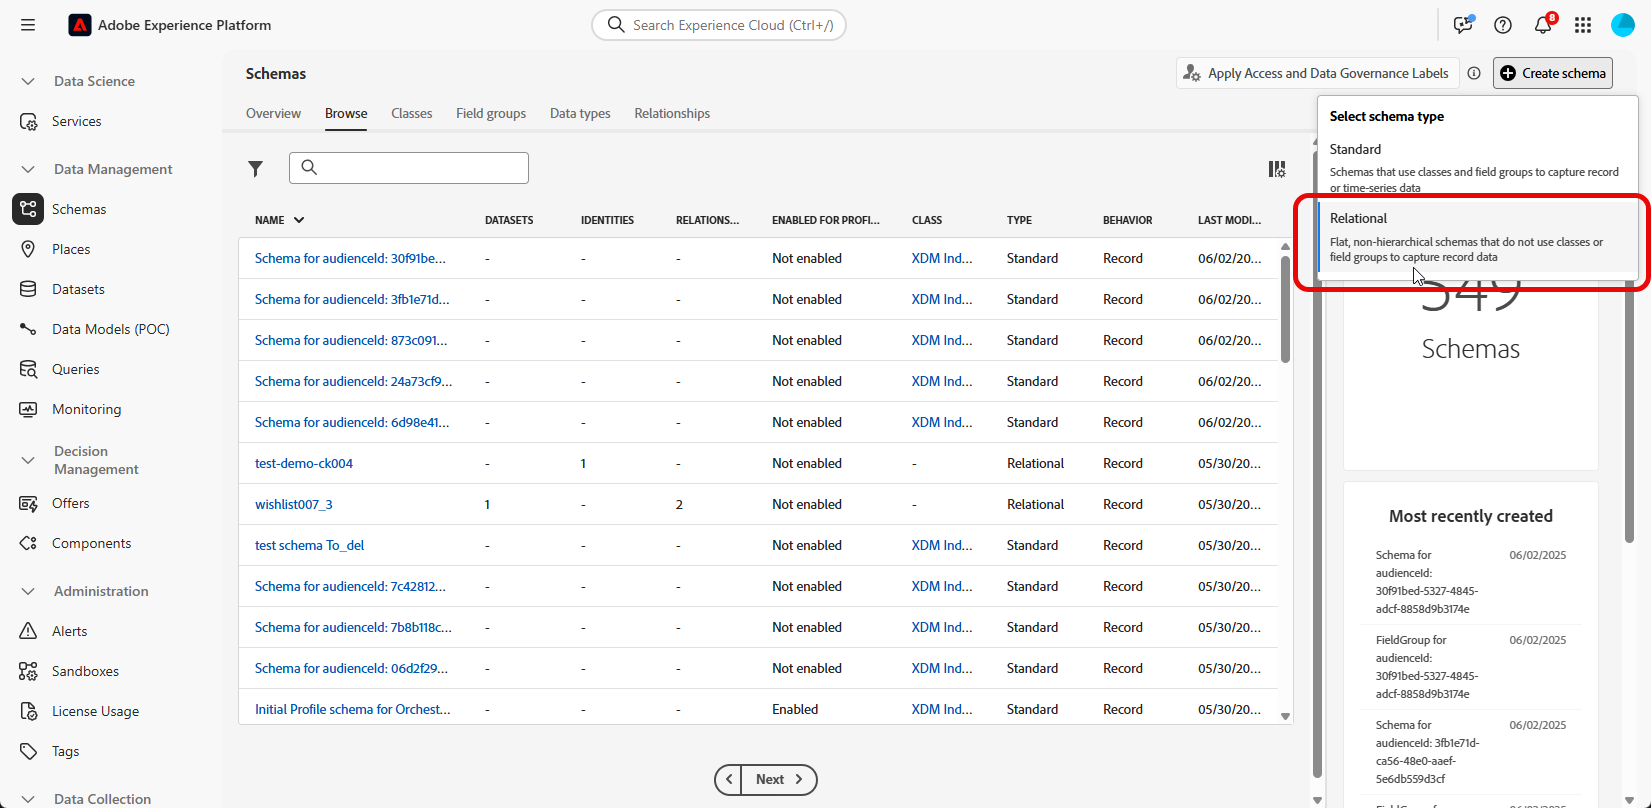
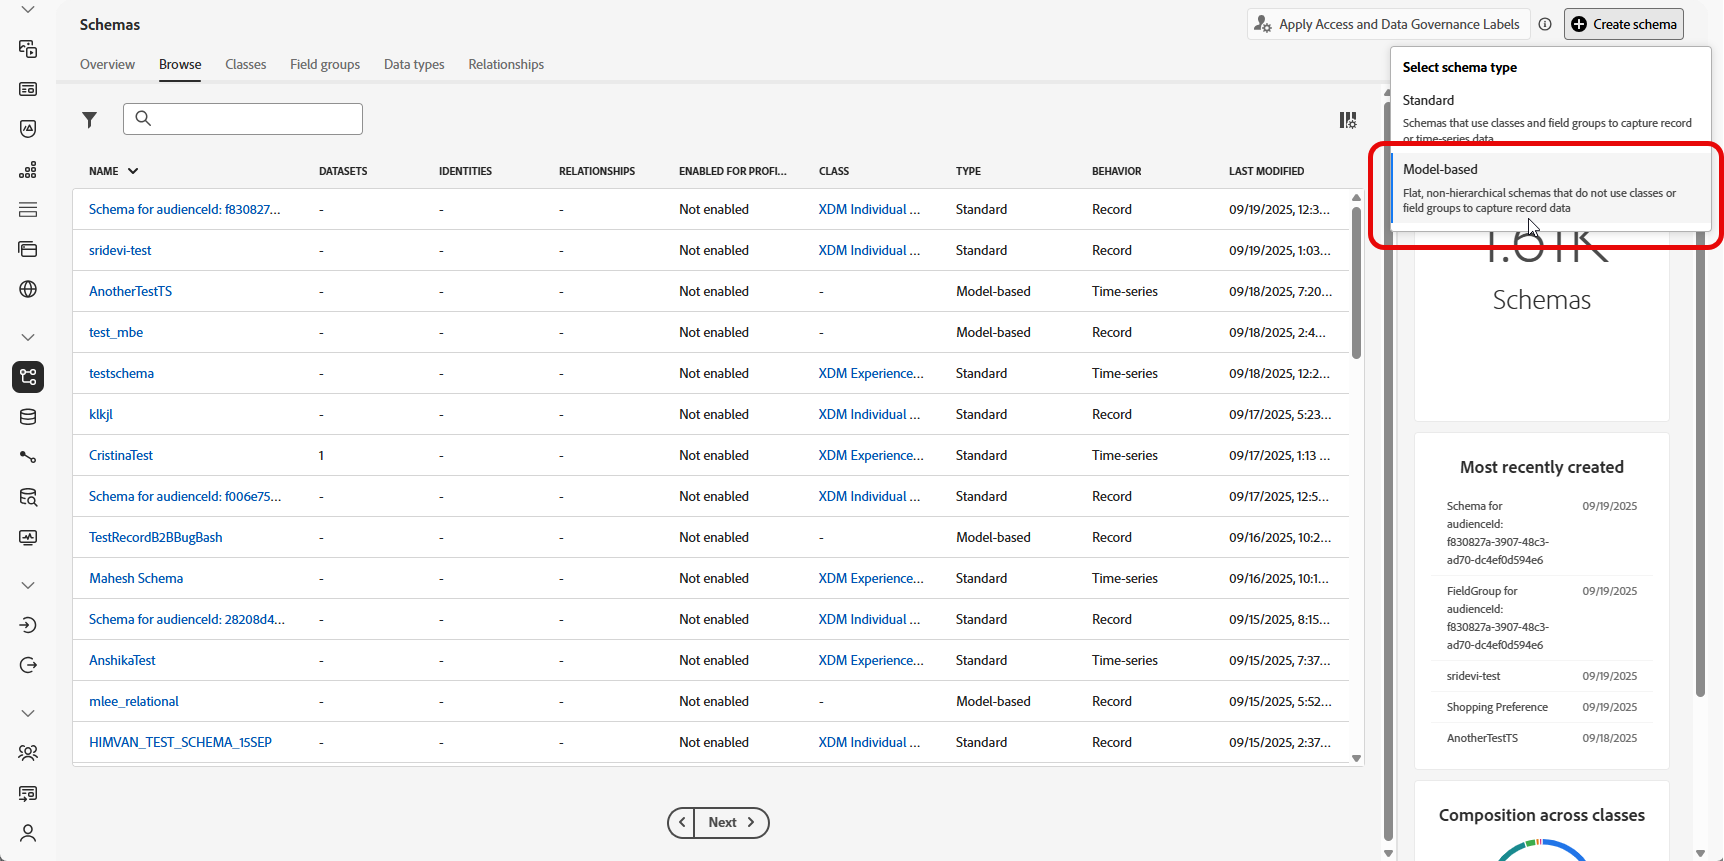
Rename (#2073)

diff --git a/help/using/orchestrated/file-upload-schema.md b/help/using/orchestrated/file-upload-schema.md
@@ -2,24 +2,24 @@
 solution: Journey Optimizer
 product: journey optimizer
 title: Configuration steps
-description: Learn how to create a relational schema within Adobe Experience Platform by uploading a DDL
+description: Learn how to create a model-based schema within Adobe Experience Platform by uploading a DDL
 exl-id: 88eb1438-0fe5-4a19-bfb6-2968a427e9e8
 version: Campaign Orchestration
 ---
 
-# Create relational schemas using a DDL file {#file-upload-schema}
+# Create model-based schemas using a DDL file {#file-upload-schema}
 
-Define the relational data model required for Orchestrated campaigns by creating schemas such as **Loyalty Memberships**, **Loyalty Transactions**, and **Loyalty Rewards**. Each schema must include a primary key, a versioning attribute, and appropriate relationships to reference entities such as **Recipients** or **Brands**.
+Define the model-based data model required for Orchestrated campaigns by creating schemas such as **Loyalty Memberships**, **Loyalty Transactions**, and **Loyalty Rewards**. Each schema must include a primary key, a versioning attribute, and appropriate relationships to reference entities such as **Recipients** or **Brands**.
 
 Schemas can be created manually through the interface or imported in bulk using a DDL file.
 
-This section provides step-by-step guidance on how to create a relational schema within Adobe Experience Platform by uploading a DDL (Data Definition Language) file. Using a DDL file allows you to define the structure of your data model in advance, including tables, attributes, keys, and relationships. 
+This section provides step-by-step guidance on how to create a model-based schema within Adobe Experience Platform by uploading a DDL (Data Definition Language) file. Using a DDL file allows you to define the structure of your data model in advance, including tables, attributes, keys, and relationships. 
 
-1. [Upload a DDL file](#ddl-upload) to create relational schemas and define their structure.
+1. [Upload a DDL file](#ddl-upload) to create model-based schemas and define their structure.
 
 1. [Define relationships](#relationships) between tables in your data model.
 
-1. [Link schemas](#link-schema) to connect your relational data with existing profile entities such as Recipients or Brands.
+1. [Link schemas](#link-schema) to connect your model-based data with existing profile entities such as Recipients or Brands.
 
 1. [Ingest data](ingest-data.md) into your dataset from supported sources.
 
@@ -29,7 +29,7 @@ By uploading a DDL file, you can define the structure of your data model in adva
 
 Excel-based schema file uploads are supported. Download the [provided template](assets/template.zip) to easily prepare your schema definitions.
 
-+++The following features are supported when creating relational schemas in Adobe Experience Platform
++++The following features are supported when creating model-based schemas in Adobe Experience Platform
 
 * **ENUM**  
   ENUM fields are supported in both DDL-based and manual schema creation, allowing you to define attributes with a fixed set of allowed values.
@@ -51,7 +51,7 @@ Excel-based schema file uploads are supported. Download the [provided template](
   Labeling is supported at the schema field level to enforce data governance policies such as access control and usage restrictions. For more details, refer to [Adobe Experience Platform documentation](https://experienceleague.adobe.com/docs/experience-platform/xdm/home.html).
 
 * **Composite Key**  
-  Composite primary keys are supported in relational schema definitions, enabling the use of multiple fields together to uniquely identify records.
+  Composite primary keys are supported in model-based schema definitions, enabling the use of multiple fields together to uniquely identify records.
 
 +++
 
@@ -61,7 +61,7 @@ Excel-based schema file uploads are supported. Download the [provided template](
 
 1. Click **Create Schema**.
 
-1. Select **[!UICONTROL Relational]** as your **Schema type**.
+1. Select **[!UICONTROL Model-based]** as your **Schema type**.
 
     ![](assets/admin_schema_1.png)
 
@@ -149,7 +149,7 @@ To define logical connections between tables within your schema, follow the step
 
 1. Click **[!UICONTROL Open Jobs]** to monitor the progress of the creation job. This process may take couple minutes, depending on the number of tables defined in the DDL file. 
 
-    You can also access your relational jobs by opening the **[!UICONTROL Upload DDL file]** window and select **[!UICONTROL View all relational Jobs]**.
+    You can also access your DDL import jobs by opening the **[!UICONTROL Upload DDL file]** window and select **[!UICONTROL View all DDL import jobs]**.
 
     ![](assets/admin_schema_4.png)
 

diff --git a/help/using/orchestrated/manual-schema.md b/help/using/orchestrated/manual-schema.md
@@ -2,18 +2,17 @@
 solution: Journey Optimizer
 product: journey optimizer
 title: Configuration steps
-description: Learn how to create relational schemas directly through the user interface.
+description: Learn how to create model-based schemas directly through the user interface.
 exl-id: 8c785431-9a00-46b8-ba54-54a10e288141
 version: Campaign Orchestration
 ---
+# Set up a manual model-based schema {#manual-schema}
 
-# Set up a manual relational schema {#manual-schema}
-
-Relational schemas can be created directly through the user interface, enabling detailed configuration of attributes, primary keys, versioning fields, and relationships. 
+Model-based schemas can be created directly through the user interface, enabling detailed configuration of attributes, primary keys, versioning fields, and relationships. 
 
 The following example manually defines the **Loyalty Memberships** schema to illustrate the required structure for Orchestrated campaigns.
 
-1. [Create a relational schema manually](#schema) using the Adobe Experience Platform interface.
+1. [Create a model-based schema manually](#schema) using the Adobe Experience Platform interface.
 
 1. [Add attributes](#schema-attributes) such as customer ID, membership level, and status fields.
 
@@ -25,7 +24,7 @@ The following example manually defines the **Loyalty Memberships** schema to ill
 
 ## Create your schema {#schema}
 
-Start by creating a new relational schema manually in Adobe Experience Platform. This process allows you to define the schema structure from scratch, including its name and behavior.
+Start by creating a new model-based schema manually in Adobe Experience Platform. This process allows you to define the schema structure from scratch, including its name and behavior.
 
 1. Log in to Adobe Experience Platform.
 
@@ -33,7 +32,7 @@ Start by creating a new relational schema manually in Adobe Experience Platform.
 
 1. Click **[!UICONTROL Create Schema]**.
 
-1. Select **[!UICONTROL Relational]** as your **Schema type**.
+1. Select **[!UICONTROL Model-based]** as your **Schema type**.
 
     ![](assets/admin_schema_1.png){zoomable="yes"}
 
@@ -53,7 +52,7 @@ Next, add attributes to define the structure of your schema. These fields repres
 
 Any schema used for targeting must include at least one identity field of type `String` with an associated identity namespace. This ensures compatibility with Adobe Journey Optimizer's targeting and identity resolution capabilities.
 
-+++The following features are supported when creating relational schemas in Adobe Experience Platform
++++The following features are supported when creating model-based schemas in Adobe Experience Platform
 
 * **ENUM**  
   ENUM fields are supported in both DDL-based and manual schema creation, allowing you to define attributes with a fixed set of allowed values.
@@ -62,7 +61,7 @@ Any schema used for targeting must include at least one identity field of type `
   Labeling is supported at the schema field level to enforce data governance policies such as access control and usage restrictions. For more details, refer to [Adobe Experience Platform documentation](https://experienceleague.adobe.com/docs/experience-platform/xdm/home.html).
 
 * **Composite Key**  
-  Composite primary keys are supported in relational schema definitions, enabling the use of multiple fields together to uniquely identify records.
+  Composite primary keys are supported in model-based schema definitions, enabling the use of multiple fields together to uniquely identify records.
 
 +++
 

diff --git a/help/using/data/get-started-schemas.md b/help/using/data/get-started-schemas.md
@@ -13,7 +13,7 @@ exl-id: c2a8df2e-ff94-4f9a-a53e-bbf9f663cc81
 
 [!DNL Adobe Journey Optimizer] relies on **Adobe Experience Platform schemas** to describe the structure of data in a consistent and reusable way. A schema provides an abstract definition of a real-world object (such as a person) and outlines what data should be included in each instance of that object (such as name, birthday, and so on). When data is ingested into Experience Platform, it is always structured according to an **XDM schema**. 
 
-## Standard & relational schemas
+## Standard & model-based schemas
 
 There are two types of schemas in Adobe Experience Platform:
 
@@ -28,22 +28,22 @@ There are two types of schemas in Adobe Experience Platform:
 
     ➡ [Learn how to create and configure a standard schema in this video](#video-schema) (video)
 
-* **Relational schemas** are flat, non-hierarchical schemas that do not use classes or field groups. They are used to capture record data for relational entities and are primarily used in [!DNL Journey Optimizer] **Orchestrated campaigns**.
+* **Model-based schemas** are flat, non-hierarchical schemas that do not use classes or field groups. They are used to capture record data for relational entities and are primarily used in [!DNL Journey Optimizer] **Orchestrated campaigns**.
 
     Examples of relational entities include:  
     * Bookings, contracts, or subscriptions  
     * Products or catalogs  
     * Stores, locations, or partners  
 
-    With relational schemas, you can send one message per entity (e.g., per booking, per subscription), create segments based on entity attributes (e.g., product category, store location), and improve addressability by reaching all contacts linked to an entity.  
+    With model-based schemas, you can send one message per entity (e.g., per booking, per subscription), create segments based on entity attributes (e.g., product category, store location), and improve addressability by reaching all contacts linked to an entity.  
 
-    How relational schemas work:
+    How model-based schemas work:
 
     1. **Create schemas manually or import via DDL**
     1. **Link schemas** to define relationships between entities and people (e.g., loyalty transactions linked to members, rewards linked to brands).  
     1. **Ingest data** into your dataset from supported sources.
 
-    ➡ [Learn how to manage relational schemas and datasets](../orchestrated/gs-schemas.md)
+    ➡ [Learn how to manage model-based schemas and datasets](../orchestrated/gs-schemas.md)
     ➡ [Get started with Orchestrated campaigns](../orchestrated/gs-schemas.md)
 
 ## How-to video{#video-schema}

diff --git a/help/using/orchestrated/gs-schemas.md b/help/using/orchestrated/gs-schemas.md
@@ -2,14 +2,14 @@
 solution: Journey Optimizer
 product: journey optimizer
 title: Configuration steps
-description: Learn how to create a relational schema within Adobe Experience Platform by uploading a DDL
+description: Learn how to create a model-based schema within Adobe Experience Platform by uploading a DDL
 exl-id: 327597f6-8a53-42dc-966a-baae49b58bb3
 version: Campaign Orchestration
 ---
 
-# Get started with Relational Schemas and Datasets{#gs-schemas}
+# Get started with model-based Schemas and Datasets{#gs-schemas}
 
-This guide walks you through the process of creating a relational schema, configuring a dataset for Orchestrated campaigns and ingesting data.
+This guide walks you through the process of creating a model-based schema, configuring a dataset for Orchestrated campaigns and ingesting data.
 
 ![schema](assets/do-not-localize/schema_admin.png){zoomable="yes"}
 
@@ -29,13 +29,13 @@ It describes:
 
 A data model is logical and conceptual, not tied to a physical implementation in Orchestrated Campaign
 
-In a **Relational data model**, data is organized into tables relating to other tables.
+In a **model-based data model**, data is organized into tables relating to other tables.
 
 * Each table has rows(records) and columns(attributes)
 * Every table has a primary key to uniquely identify rows
 * Relationships between tables are expressed using foreign keys
 
-A **relational schema** is the formal definition of the relational data model.
+A **model-based schema** is the formal definition of the model-based data model.
 
 It specifies:
 
@@ -44,13 +44,13 @@ It specifies:
 * The constraints
 * The relationships across tables
 
-Organizing schemas or tables in a relational data model is about structuring your data into multiple tables. Ensure each table stores one type of entity/schemas
+Organizing schemas or tables in a model-based data model is about structuring your data into multiple tables. Ensure each table stores one type of entity/schemas
 
 ## Implementation steps {#implementation}
 
-To ingest data and create relational schema, follow these steps:
+To ingest data and create model-based schema, follow these steps:
 
-1. Create [relational schema manually](manual-schema.md) or [using a DDL file](file-upload-schema.md)
+1. Create [model-based schema manually](manual-schema.md) or [using a DDL file](file-upload-schema.md)
 
     Define the structure of your data model, including tables, attributes, and relationships. Choose to build the schema manually in the user interface or upload a DDL file for faster setup.
 

diff --git a/help/using/orchestrated/ingest-data.md b/help/using/orchestrated/ingest-data.md
@@ -61,7 +61,7 @@ The following Dources are supported for use with Orchestrated campaigns:
   </tbody>
 </table>
 
-## Guidelines for relational Schema data hygiene {#cdc}
+## Guidelines for model-based Schema data hygiene {#cdc}
 
 For datasets enabled with **[!UICONTROL Change data capture]**, all data changes including deletions, are automatically mirrored from the source system into Adobe Experience Platform.
 
@@ -99,9 +99,9 @@ This example demonstrates how to configure a data flow that ingests structured d
 
     ![](assets/S3_config_1.png)
 
-1. From the **[!UICONTROL Dataset details]** page, check **[!UICONTROL Enable Change data capture]** to display only datasets that are mapped to relational schemas and include both a primary key and a version descriptor. 
+1. From the **[!UICONTROL Dataset details]** page, check **[!UICONTROL Enable Change data capture]** to display only datasets that are mapped to model-based schemas and include both a primary key and a version descriptor. 
 
-    [Learn more on guidelines for relational Schemas data hygiene](#cdc)
+    [Learn more on guidelines for model-based Schemas data hygiene](#cdc)
 
     >[!IMPORTANT]
     >

diff --git a/help/using/orchestrated/orchestrated-campaigns-faq.md b/help/using/orchestrated/orchestrated-campaigns-faq.md
@@ -171,13 +171,13 @@ In Campaign Orchestration, we refer to ad-hoc segmentation as 'Live segmentation
 
 +++ Does Campaign Orchestration only access data loaded via batch, or can it also query real-time updated tables (such as Analytics data)?
 
-Journey Optimizer Campaign Orchestration can first build ad-hoc query on top of Relational Schemas. Relational Schemas supports Batch Sources only for now. In addition, it supports Read audience from any type of Adobe Experience Platform Audience.
+Journey Optimizer Campaign Orchestration can first build ad-hoc query on top of model-based Schemas. Model-based Schemas supports Batch Sources only for now. In addition, it supports Read audience from any type of Adobe Experience Platform Audience.
 
 +++
 
 +++ Do Orchestrated campaigns support decisioning?
 
-Yes. Decisioning can use relational data from Orchestrated campaigns. Once relational schema connected with XDM schemas, XDM data can be used in decisioning.
+Yes. Decisioning can use relational data from Orchestrated campaigns. Once model-based schema connected with XDM schemas, XDM data can be used in decisioning.
 
 +++
 

diff --git a/help/using/orchestrated/guardrails.md b/help/using/orchestrated/guardrails.md
@@ -27,7 +27,7 @@ You will find below guardrails and limitations when using Orchestrated campaigns
 
 * The average number of attributes per schema **should not exceed 50 columns** to maintain manageability and performance.
 
-* Relational schemas cannot be enabled for Adobe Experience Platform **Profiles**. Only Standard XDM schemas are supported for Adobe Experience Platform **Profiles**. Relational schemas can be enabled for Orchestrated Campaigns or Action Campaigns. [Learn more](https://experienceleague.adobe.com/en/docs/experience-platform/catalog/datasets/user-guide#enable-profile) 
+* Model-based schemas cannot be enabled for Adobe Experience Platform **Profiles**. Only Standard XDM schemas are supported for Adobe Experience Platform **Profiles**. Model-based schemas can be enabled for Orchestrated Campaigns or Action Campaigns. [Learn more](https://experienceleague.adobe.com/en/docs/experience-platform/catalog/datasets/user-guide#enable-profile) 
 
 ### Data Ingestion
 

diff --git a/help/TOC.md b/help/TOC.md
@@ -229,8 +229,8 @@ solution: Journey Optimizer
     + [FAQ](using/orchestrated/orchestrated-campaigns-faq.md)
     + Data configuration {#data-configuration}
       + [Data configuration](/help/rp_landing_pages/data-configuration-landing-page.md)
-      + Manage relational Schemas and Datasets {#schemas-datasets}
-        + [Manage relational Schemas and Datasets](/help/rp_landing_pages/schemas-datasets-landing-page.md)
+      + Manage model-based Schemas and Datasets {#schemas-datasets}
+        + [Manage model-based Schemas and Datasets](/help/rp_landing_pages/schemas-datasets-landing-page.md)
         + [Get started with schemas and datasets](using/orchestrated/gs-schemas.md)
         + [Manual schema](using/orchestrated/manual-schema.md)
         + [File upload schema](using/orchestrated/file-upload-schema.md)

diff --git a/help/rp_landing_pages/orchestrated-campaigns-landing-page.md b/help/rp_landing_pages/orchestrated-campaigns-landing-page.md
@@ -38,7 +38,7 @@ Understand the constraints and limitations to consider when using Orchestrated c
 
 Data Configuration for Orchestrated Campaigns
 
-Configure relational schemas, datasets, and channels to ensure data readiness for Orchestrated campaigns.
+Configure model-based schemas, datasets, and channels to ensure data readiness for Orchestrated campaigns.
 
 [Explore data configuration](data-configuration-landing-page.md)
 :::
